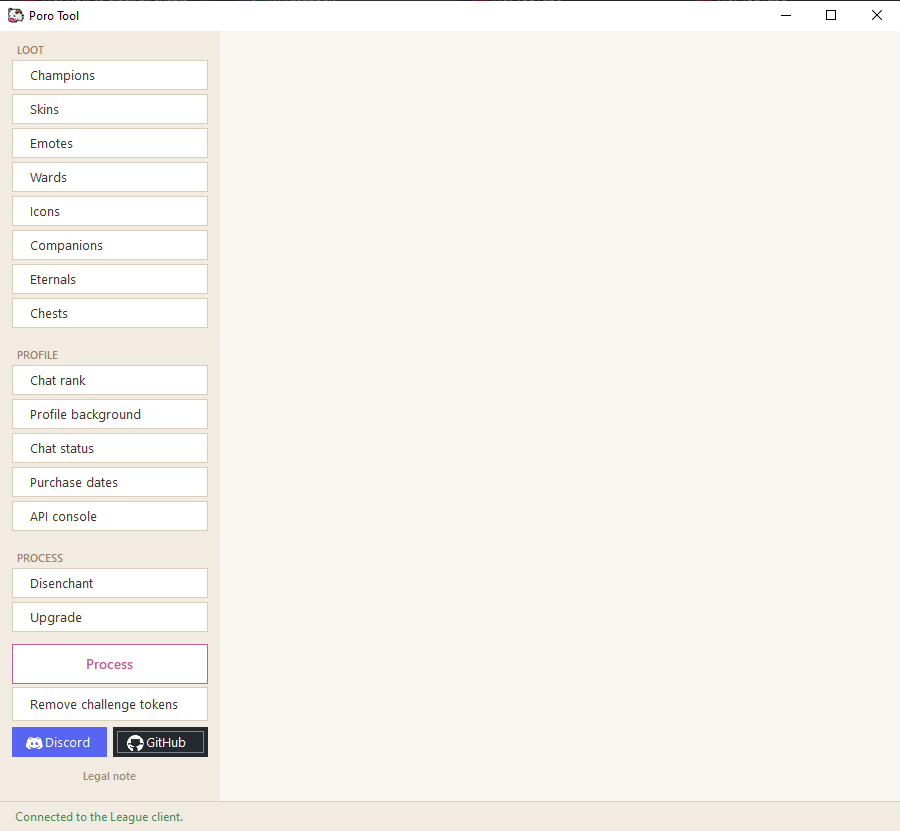
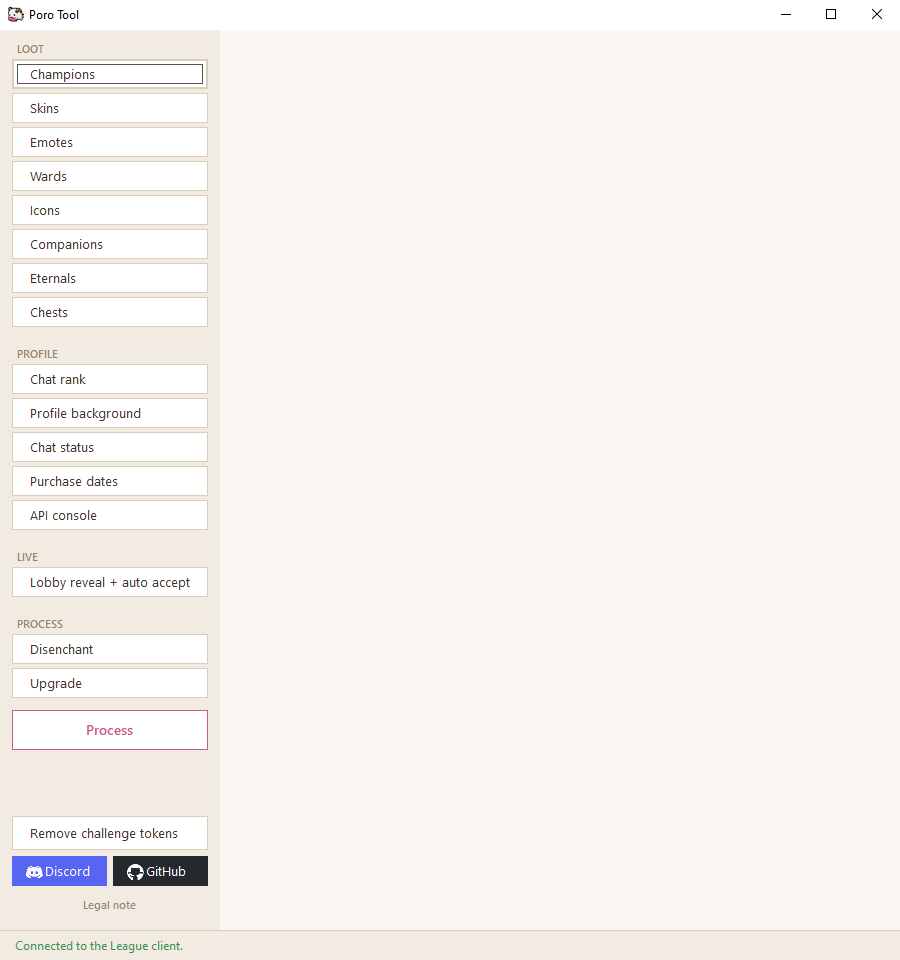
Fix dodge reliability and lobby reveal display
Dodge now fires on the first click instead of needing several: the
quitV2 call sends raw args (matching the reveal tool) and repeats until
champ select actually closes, removing the delay between clicking and
dodging.

Lobby reveal now shows the revealed names reliably - the list update is
marshalled through the form so it no longer races the reveal thread.

Also refresh the README feature list and screenshot for the live tools.

Changed region(s): [[0.0, 0.0, 0.2489, 0.9928], [0.9644, 0.0, 0.9956, 0.0301], [0.9022, 0.0, 0.9333, 0.0301]]

diff --git a/PoroTool/MainForm.LiveView.cs b/PoroTool/MainForm.LiveView.cs
@@ -239,21 +239,41 @@ namespace PoroTool
 
         // ---------- Dodge ----------
 
-        // LCDS proxy call that quits champ select. It leaves the lobby/queue
-        // (you take the normal dodge penalty) but keeps the client running.
-        private async Task DodgeQuit()
+        // LCDS proxy call that quits champ select. The args are sent raw (like
+        // the reveal tool) and the call is repeated until we actually leave
+        // champ select, because a single quitV2 is flaky and often needs a few
+        // tries before it registers. Keeps the client running.
+        private async Task DodgeReliably()
         {
-            string args = Uri.EscapeDataString("[\"\",\"teambuilder-draft\",\"quitV2\",\"\"]");
-            await league.Post("/lol-login/v1/session/invoke?destination=lcdsServiceProxy&method=call&args=" + args, "{}");
+            for (int attempt = 0; attempt < 6; attempt++)
+            {
+                try
+                {
+                    await league.Request("POST",
+                        "/lol-login/v1/session/invoke?destination=lcdsServiceProxy&method=call&args=[\"\",\"teambuilder-draft\",\"quitV2\",\"\"]",
+                        "{}");
+                }
+                catch { }
+
+                await Task.Delay(250);
+
+                try
+                {
+                    if (!(await league.Get("/lol-gameflow/v1/gameflow-phase") is string phase) || phase != "ChampSelect")
+                        return;   // out of champ select - the dodge landed
+                }
+                catch { }
+            }
         }
 
         private async void DodgeNow()
         {
             if (!EnsureConnected()) return;
 
+            SetStatusSafe("Dodging champ select...", StatusKind.Info);
             try
             {
-                await DodgeQuit();
+                await DodgeReliably();
                 SetStatusSafe("Dodged champ select.", StatusKind.Success);
             }
             catch (Exception ex)
@@ -281,8 +301,8 @@ namespace PoroTool
             long left = leftValue == null ? 0 : Convert.ToInt64(leftValue);
 
             dodgeScheduled = true;
-            // Fire a touch before the phase ends so the quit registers in time.
-            int wait = (int)Math.Max(0, left - 800);
+            // Fire before the phase ends, leaving room for the retry loop to land.
+            int wait = (int)Math.Max(0, left - 1500);
             SetStatusSafe("Last-second dodge: quitting in ~" + Math.Round(wait / 1000.0) + "s.", StatusKind.Info);
 
             Task.Run(async () =>
@@ -291,7 +311,7 @@ namespace PoroTool
                 {
                     await Task.Delay(wait);
                     if (!dodgeArmed) return;   // disarmed while waiting
-                    await DodgeQuit();
+                    await DodgeReliably();
                     SetStatusSafe("Dodged at the last second.", StatusKind.Success);
                 }
                 catch (Exception ex)
@@ -309,21 +329,14 @@ namespace PoroTool
 
         private void UpdateDodgeUi()
         {
-            var cb = dodgeArmCheckBox;
-            if (cb == null || cb.IsDisposed) return;
-
-            try
+            if (InvokeRequired)
             {
-                if (cb.InvokeRequired)
-                {
-                    cb.BeginInvoke((Action)UpdateDodgeUi);
-                    return;
-                }
-            }
-            catch
-            {
+                try { BeginInvoke((Action)UpdateDodgeUi); } catch { }
                 return;
             }
+
+            var cb = dodgeArmCheckBox;
+            if (cb == null || cb.IsDisposed) return;
 
             // Reflect the armed state without re-triggering the user handler
             // (e.g. when the dodge fired or champ select ended).
@@ -432,21 +445,16 @@ namespace PoroTool
 
         private void UpdateLiveUi()
         {
+            // Marshal via the form: its handle always exists once shown, so this
+            // is reliable even before the reveal panel's own handle is created.
+            if (InvokeRequired)
+            {
+                try { BeginInvoke((Action)UpdateLiveUi); } catch { }
+                return;
+            }
+
             var panel = revealListPanel;
             if (panel == null || panel.IsDisposed) return;
-
-            try
-            {
-                if (panel.InvokeRequired)
-                {
-                    panel.BeginInvoke((Action)UpdateLiveUi);
-                    return;
-                }
-            }
-            catch
-            {
-                return;   // control went away between the check and the invoke
-            }
 
             if (revealPhaseLabel != null && !revealPhaseLabel.IsDisposed)
                 revealPhaseLabel.Text = "Status: " + FriendlyPhase(currentPhase);

diff --git a/README.md b/README.md
@@ -11,6 +11,10 @@ A small desktop utility for League of Legends that does the boring loot work for
 - **Chat status** — set a custom status message.
 - **Purchase dates** — a sortable list of your champions with the date you bought them.
 - **API console** — send raw requests to the LCU and inspect the responses.
+- **Lobby reveal** — shows your champ-select teammates' Riot IDs (even while names are hidden), read from your local client.
+- **Auto-accept** the ready check.
+- **Multi-search** — open an OP.GG / DeepLoL / U.GG / Tracker.gg lookup for the revealed players.
+- **Dodge** — leave champ select instantly, or arm a last-second dodge that fires just before the game starts.
 
 Poro Tool talks to the official local League Client API (LCU) — the same one the client itself uses. It doesn't touch the game, doesn't read memory and doesn't automate gameplay.
 